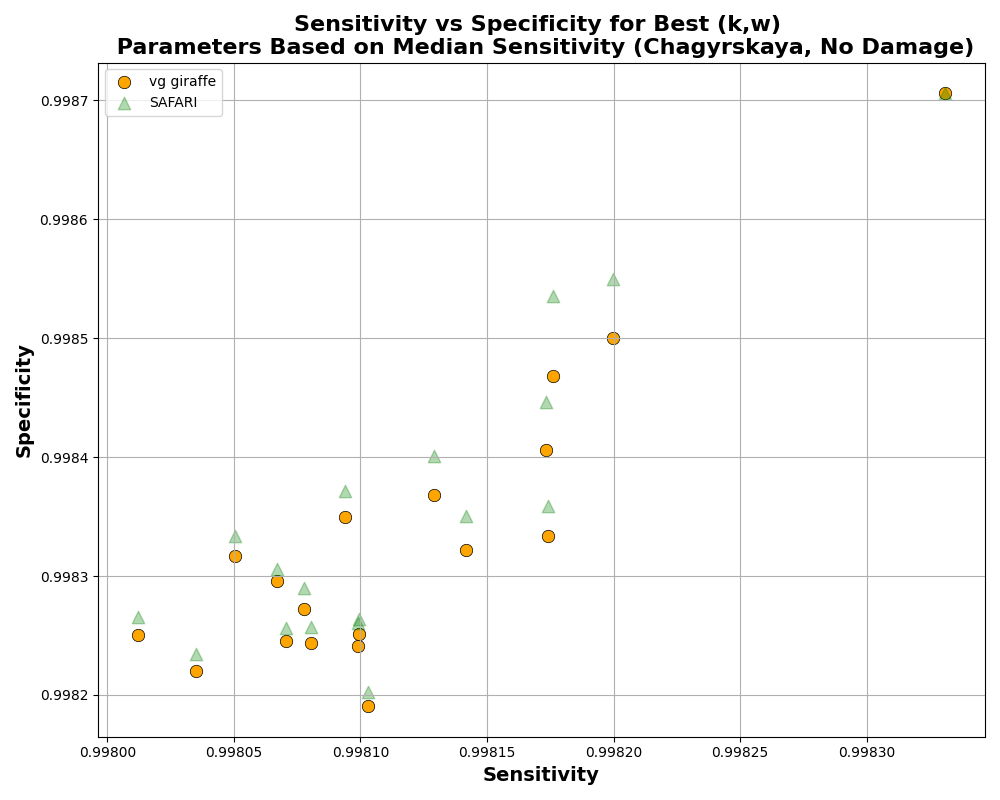
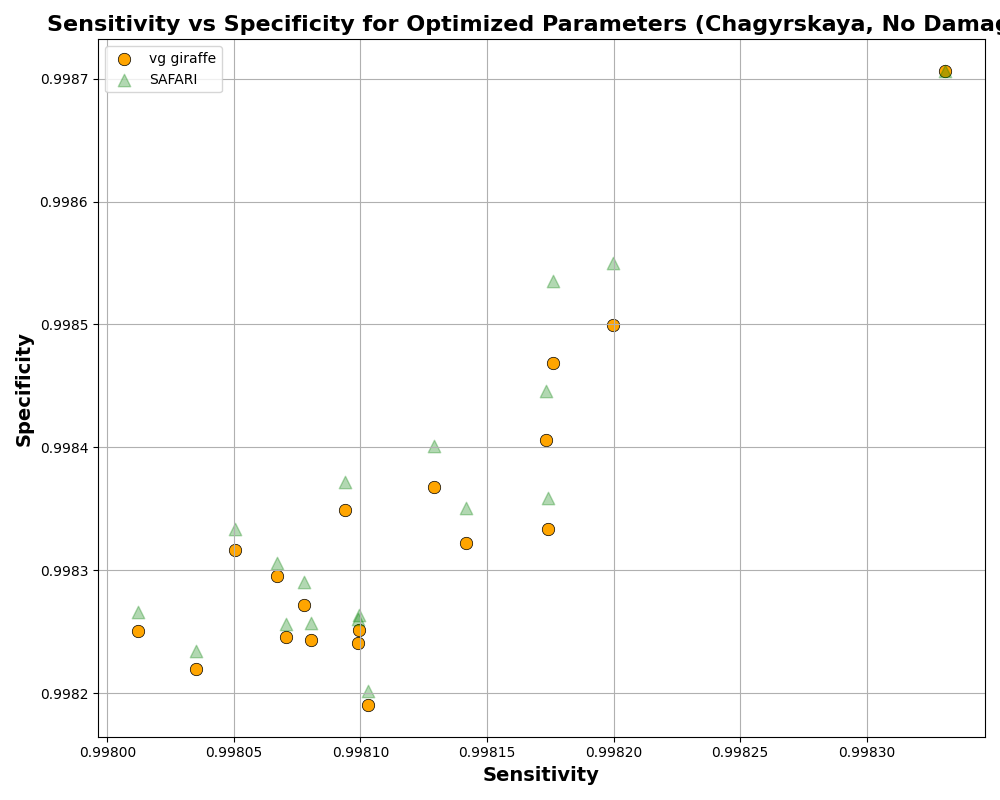
Update

diff --git a/linear_experiment/human_mito/stat_results/plot_svs_none.py b/linear_experiment/human_mito/stat_results/plot_svs_none.py
@@ -52,7 +52,7 @@ def plot_best_sensitivity(data_path):
         else:
             plt.scatter(tool_data['sensitivity'], tool_data['specificity'], label=f'{tool}', color=tool_colors[tool], alpha=0.3, marker='^',s=80)
 
-    plt.title('Sensitivity vs Specificity for Best (k,w) \n Parameters Based on Median Sensitivity (' + sys.argv[3] + ", No Damage)", fontsize=16, fontweight='bold')
+    plt.title('Sensitivity vs Specificity for Optimized Parameters (' + sys.argv[3] + ", No Damage)", fontsize=16, fontweight='bold')
     plt.xlabel('Sensitivity', fontsize=14, fontweight='bold')
     plt.ylabel('Specificity', fontsize=14, fontweight='bold')
     plt.legend()
